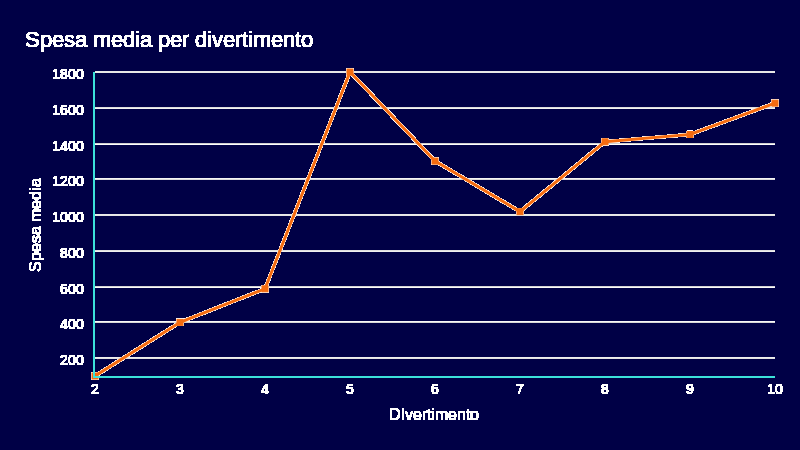
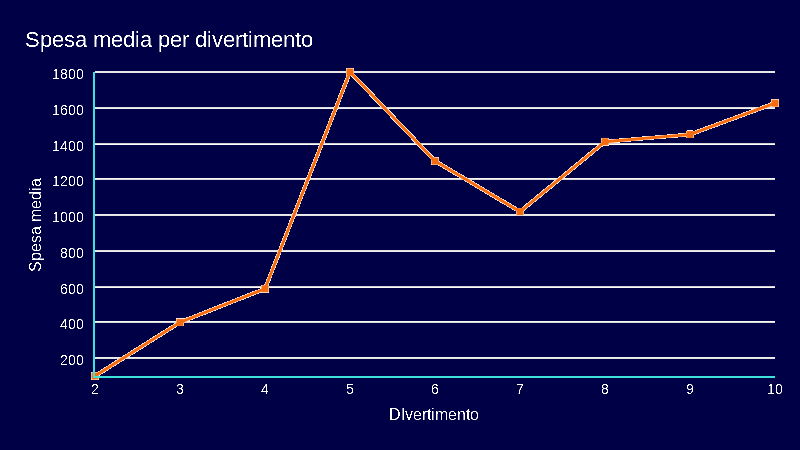
improved graph quality

diff --git a/charts/fill_background.py b/charts/fill_background.py
@@ -1,5 +1,5 @@
 from typing import List
-import cv2
+from PIL import Image
 import os
 
 
@@ -13,15 +13,42 @@ def get_all_charts() -> List[str]:
 
 def fill_background(chart: str) -> None:
     # Fill the transparent background with blue
-    im = cv2.imread(chart, cv2.IMREAD_UNCHANGED)
 
-    for i in range(im.shape[0]):
-        for j in range(im.shape[1]):
-            if tuple(im[i, j]) == tuple([0, 0, 0, 0]):
-                im[i, j] = [70, 0, 0, 255]
+    im = Image.open(chart)
 
-    # Save the image with alpha channel
-    cv2.imwrite(chart, im, [cv2.IMWRITE_PNG_COMPRESSION, 0])
+    for x in range(im.width):
+        for y in range(im.height):
+            pixel = im.getpixel((x, y))
+
+            # If pixel is transparent and black, fill with blue
+            if pixel == (0, 0, 0, 0):
+                im.putpixel((x, y), (0, 0, 70, 255))
+            
+            # If pixel is white and somewhat transparent
+            elif pixel[:3] == (255, 255, 255):
+                alpha = pixel[3]
+
+                if alpha > 150:
+                    im.putpixel((x, y), (255, 255, 255, 255))
+
+                elif alpha > 110:
+                    im.putpixel((x, y), (0, 0, 70, 255 - pixel[3]))
+
+                else:
+                    im.putpixel((x, y), (0, 0, 70, 255))
+            
+
+    im.save(chart, format='png')
+
+    # im = cv2.imread(chart, cv2.IMREAD_UNCHANGED)
+
+    # for i in range(im.shape[0]):
+    #     for j in range(im.shape[1]):
+    #         if tuple(im[i, j]) == tuple([0, 0, 0, 0]):
+    #             im[i, j] = [70, 0, 0, 255]
+
+    # # Save the image with alpha channel
+    # cv2.imwrite(chart, im, [cv2.IMWRITE_PNG_COMPRESSION, 0])
 
 
 def main() -> None:
